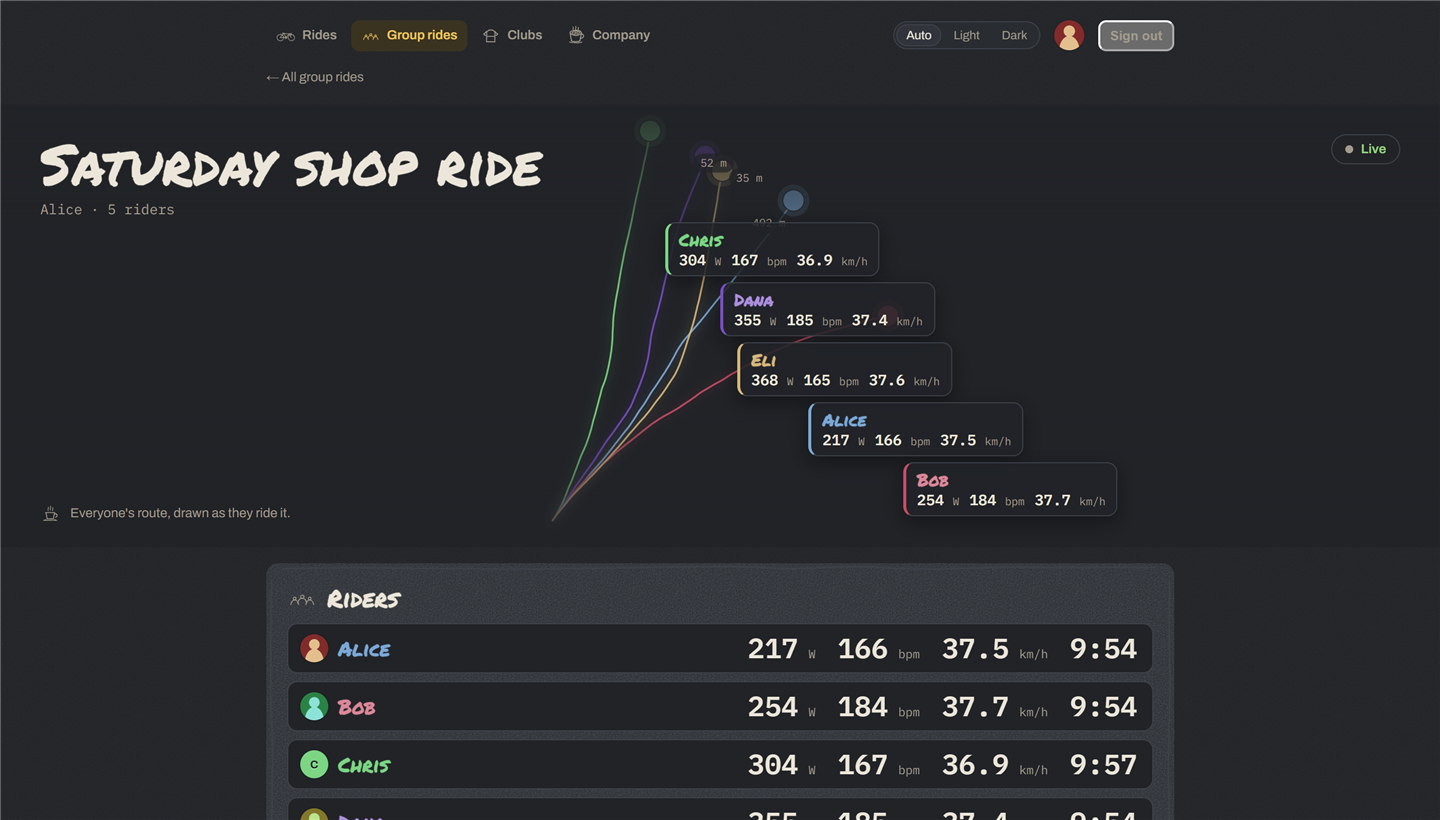
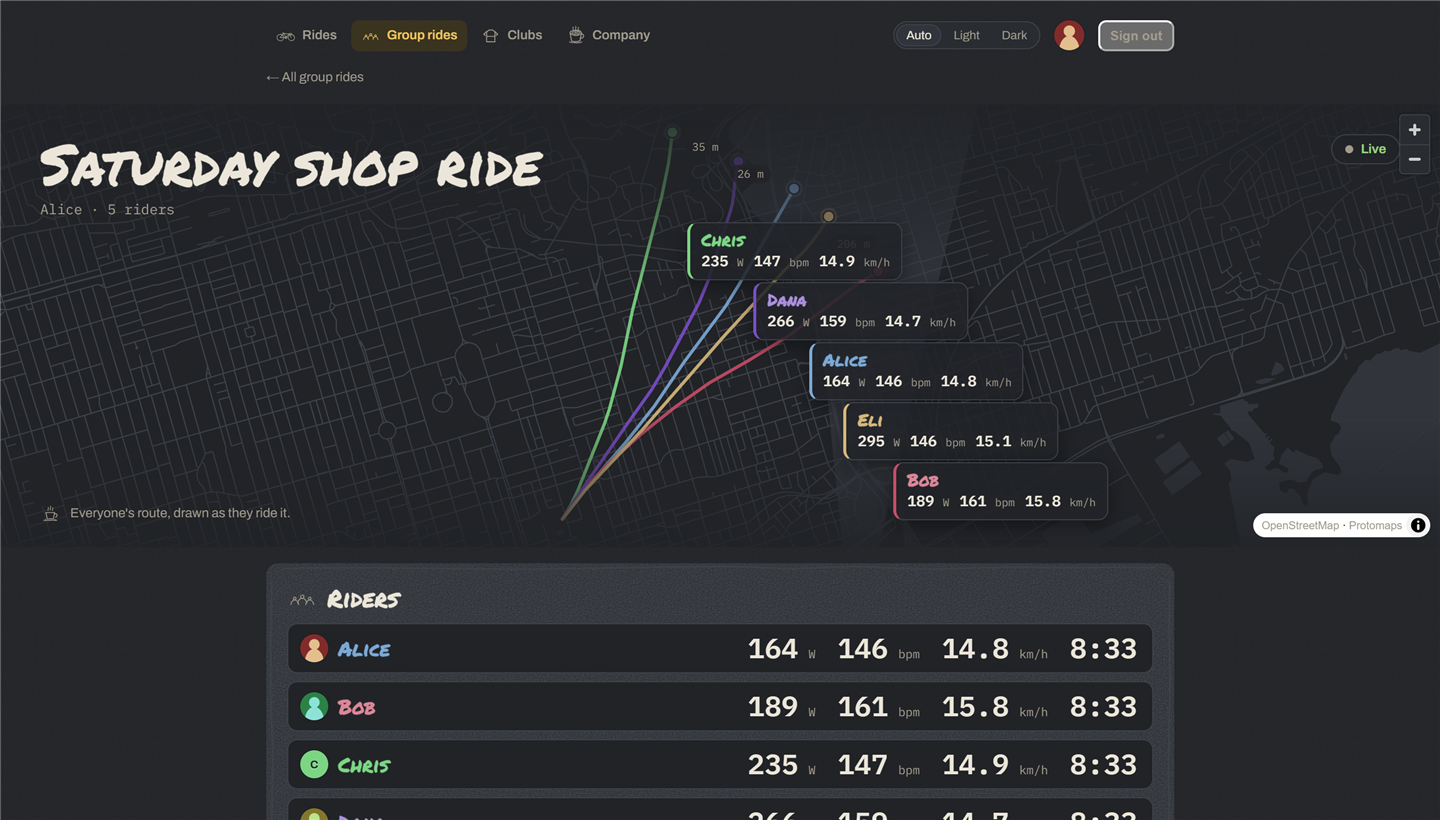
Show the live group ride on a map of Toronto

diff --git a/README.md b/README.md
@@ -26,16 +26,16 @@ themes.
 
 ### Web
 
-These use demo riders, sent through the real backend by a ride simulator I wrote. Map tiles were
-turned off when I took them, so the routes are drawn on a plain background.
+These use demo riders, sent through the real backend by a ride simulator I wrote.
 
-A group ride while it's happening. Each rider's route draws in as they go, with their numbers next
-to them on the map.
+A group ride through downtown Toronto while it's happening. Each rider's route draws in as they go,
+with their numbers next to them on the map.
 
 ![A live group ride with five riders](screenshots/web-02-live-group-ride.png)
 
 After the ride you get highlights: who spent the most time on the front, a few awards, totals for
-the group, and a replay of the whole ride. This one is in the light theme.
+the group, and a replay of the whole ride. This one is in the light theme. The map was switched off
+for this one and the ones below, so routes there are drawn on a plain background.
 
 ![Group ride highlights in the light theme](screenshots/web-05-group-ride-highlights-light.png)
 
